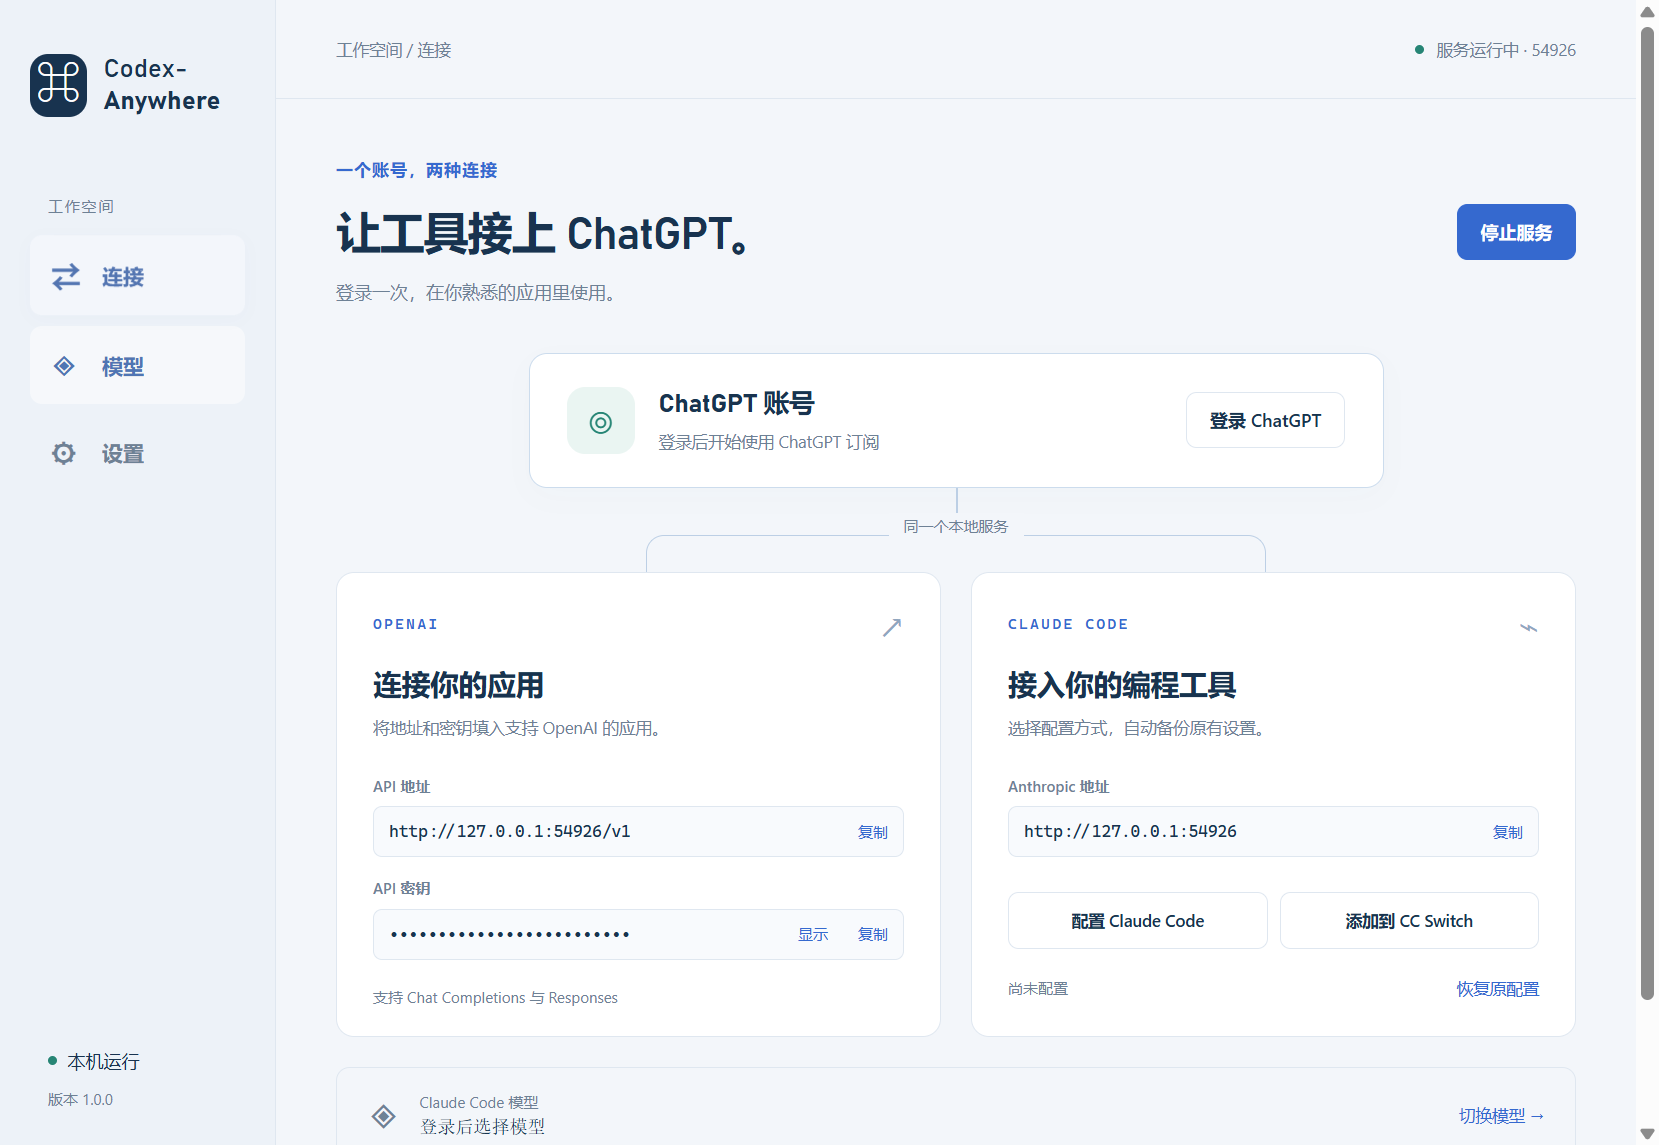
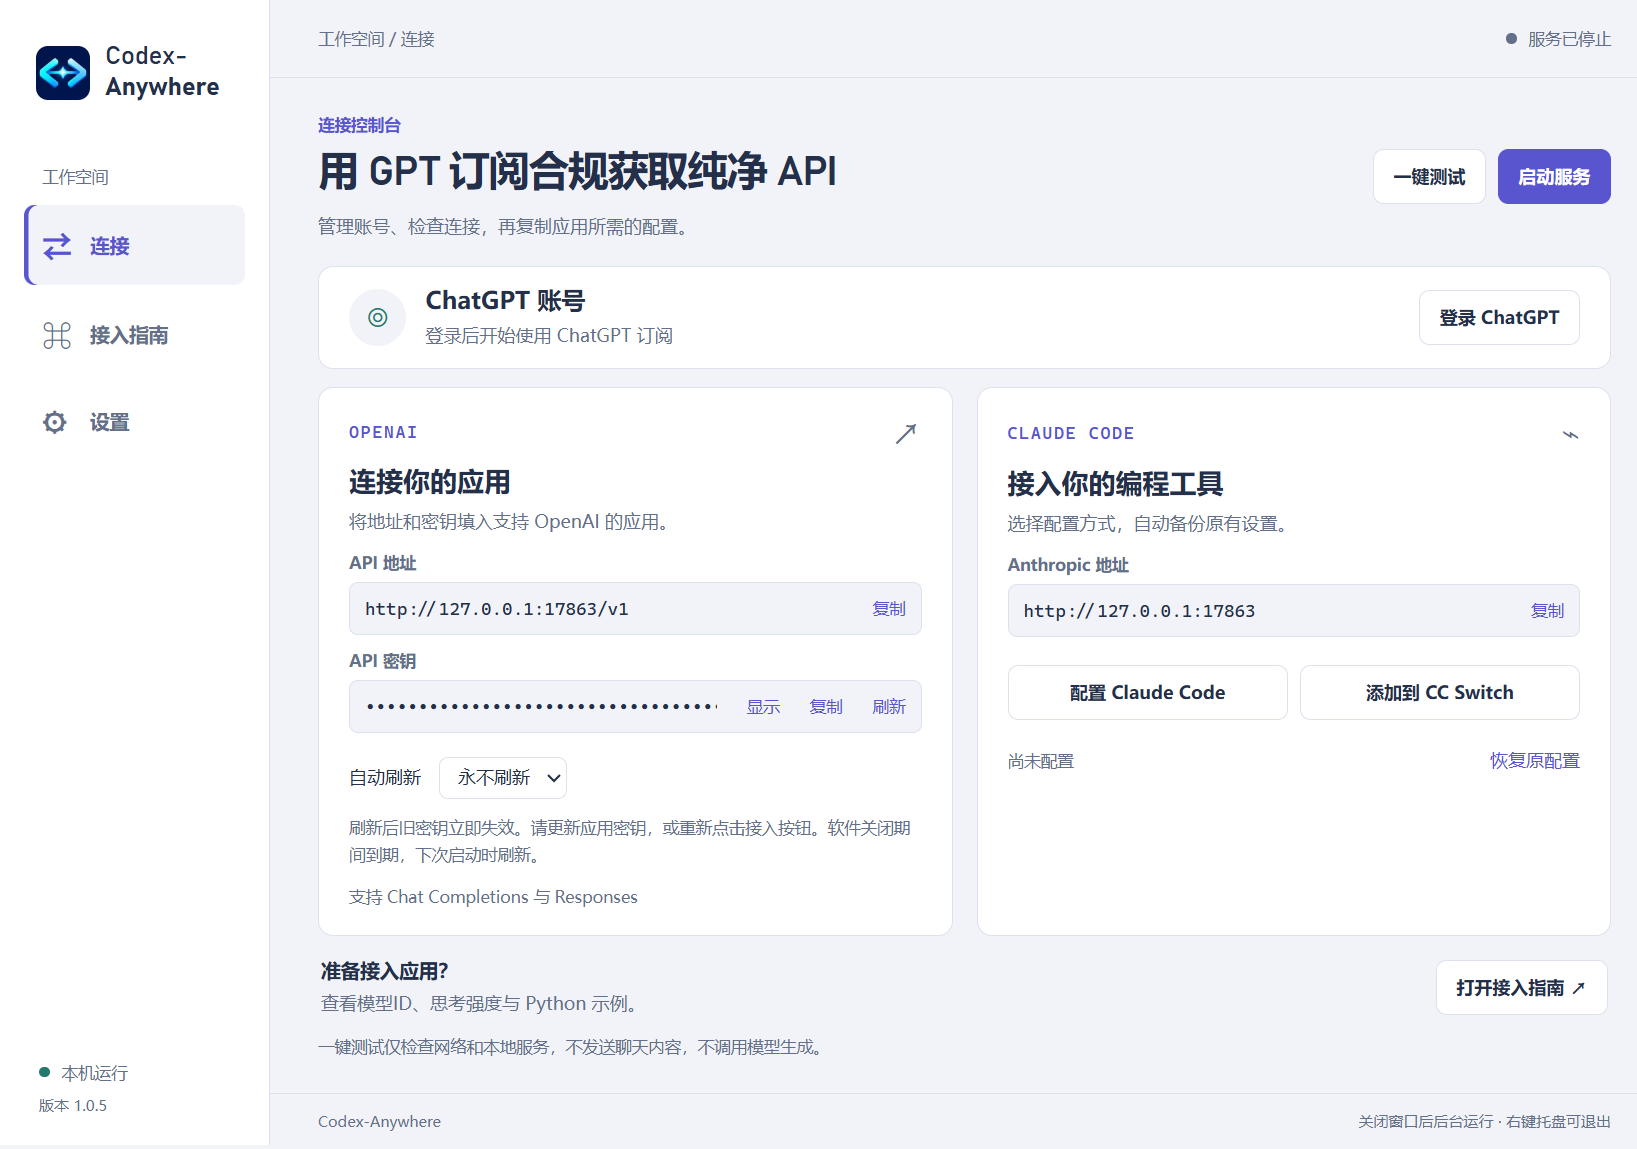
Release 1.0.5 with updated desktop headline and synchronized Windows and Mac builds

diff --git a/src/desktop/renderer/index.html b/src/desktop/renderer/index.html
@@ -4,7 +4,7 @@
 <body>
 <aside class="sidebar"><button class="brand" type="button" aria-label="Codex-Anywhere 首页"><img class="brand-mark" src="../assets/icon.png" alt="" width="36" height="36"><span>Codex-<br><strong>Anywhere</strong></span></button><div class="nav-label">工作空间</div><nav aria-label="主导航"><button class="nav-item active" data-page="connections" aria-current="page"><span aria-hidden="true">⇄</span>连接</button><button class="nav-item" data-page="guide"><span aria-hidden="true">⌘</span>接入指南</button><button class="nav-item" data-page="settings"><span aria-hidden="true">⚙</span>设置</button></nav><div class="sidebar-bottom"><span class="local-label"><i></i>本机运行</span><small id="version">Codex-Anywhere</small></div></aside>
 <main><header class="topbar"><span id="breadcrumb">工作空间 / 连接</span><span class="service-status" id="service-status"><i></i>正在读取状态</span></header><div class="content"><div id="notice" class="notice" role="status" aria-live="polite" hidden></div>
-<section id="page-connections" class="page"><div class="page-heading"><div><p class="eyebrow">连接控制台</p><h1>从本机，连接你的工具。</h1><p class="intro">管理账号、检查连接，再复制应用所需的配置。</p></div><div class="heading-actions"><button id="quick-test" class="button" type="button">一键测试</button><button id="toggle-service" class="button primary" disabled>读取状态中…</button></div></div>
+<section id="page-connections" class="page"><div class="page-heading"><div><p class="eyebrow">连接控制台</p><h1>用 GPT 订阅合规获取纯净 API</h1><p class="intro">管理账号、检查连接，再复制应用所需的配置。</p></div><div class="heading-actions"><button id="quick-test" class="button" type="button">一键测试</button><button id="toggle-service" class="button primary" disabled>读取状态中…</button></div></div>
 <div id="quick-test-result" class="connection-result" role="status" aria-live="polite" hidden></div><div class="connection-map"><article class="account-card"><div class="account-icon" aria-hidden="true">◎</div><div class="account-copy"><h2>ChatGPT 账号</h2><p id="account-state">正在读取登录状态…</p></div><button id="login" class="button">登录 ChatGPT</button><button id="cancel-login" class="button" hidden>取消登录</button><button id="logout" class="button quiet" hidden>退出登录</button></article><div class="connections-grid"><article class="connection-card"><div class="card-top"><span class="protocol">OPENAI</span><span class="card-symbol" aria-hidden="true">↗</span></div><h2>连接你的应用</h2><p class="card-description">将地址和密钥填入支持 OpenAI 的应用。</p><label class="field-label" for="base-url">API 地址</label><div class="copy-field"><input id="base-url" readonly value="—"><button class="copy-button" data-copy="base-url" aria-label="复制 API 地址">复制</button></div><label class="field-label" for="api-key">API 密钥</label><div class="copy-field"><input id="api-key" type="password" readonly placeholder="启动后可用"><button class="copy-button" id="reveal-key" aria-label="显示 API 密钥">显示</button><button class="copy-button" data-copy="api-key" aria-label="复制 API 密钥">复制</button><button class="copy-button" id="rotate-key">刷新</button></div><div class="key-rotation"><label for="key-rotation">自动刷新</label><select id="key-rotation"><option value="0">永不刷新</option><option value="1">1 小时</option><option value="24">1 天</option><option value="168">7 天</option></select></div><p class="footnote">刷新后旧密钥立即失效。请更新应用密钥，或重新点击接入按钮。软件关闭期间到期，下次启动时刷新。</p><p id="key-reconnect" class="guide-warning" hidden>密钥已刷新，请重新接入应用。</p><p class="footnote">支持 Chat Completions 与 Responses</p></article>
 <article class="connection-card"><div class="card-top"><span class="protocol">CLAUDE CODE</span><span class="card-symbol" aria-hidden="true">⌁</span></div><h2>接入你的编程工具</h2><p class="card-description">选择配置方式，自动备份原有设置。</p><label class="field-label" for="anthropic-url">Anthropic 地址</label><div class="copy-field"><input id="anthropic-url" readonly value="—"><button class="copy-button" data-copy="anthropic-url" aria-label="复制 Anthropic 地址">复制</button></div><div class="integrate-actions"><button class="button" data-integrate="direct">配置 Claude Code</button><button class="button" data-integrate="cc-switch">添加到 CC Switch</button></div><div class="integration-footer"><span id="integration-state">尚未配置</span><button id="restore" class="text-button">恢复原配置</button></div></article></div></div>
 <div class="guide-link"><div><strong>准备接入应用？</strong><p>查看模型ID、思考强度与 Python 示例。</p></div><button class="button" data-page="guide">打开接入指南 <span aria-hidden="true">↗</span></button></div><p class="test-scope">一键测试仅检查网络和本地服务，不发送聊天内容，不调用模型生成。</p>

diff --git a/src/desktop/renderer/translations.js b/src/desktop/renderer/translations.js
@@ -48,7 +48,7 @@ export const translations = Object.fromEntries([
   ['代理地址尚未保存，本次使用的是已保存的设置。', '代理位址尚未儲存，本次使用的是已儲存的設定。', 'Your proxy changes are unsaved. This test used the saved settings.'],
   ['接入指南', '接入指南', 'Setup guide'],
   ['连接控制台', '連線控制台', 'Connection console'],
-  ['从本机，连接你的工具。', '從本機，連接你的工具。', 'Your tools, connected locally.'],
+  ['用 GPT 订阅合规获取纯净 API', '用 GPT 訂閱合規取得純淨 API', 'Get clean API access compliantly with your GPT subscription'],
   ['管理账号、检查连接，再复制应用所需的配置。', '管理帳號、檢查連線，再複製應用程式所需的設定。', 'Manage your account, check connections, and copy settings for your apps.'],
   ['一键测试', '一鍵測試', 'Test connection'],
   ['连接路径', '連線路徑', 'Connection path'],

diff --git a/docs/README.zh-CN.md b/docs/README.zh-CN.md
@@ -6,7 +6,7 @@
 
 **通过本地 API Key 使用 ChatGPT 订阅额度**
 
-[下载 Windows 桌面版](https://github.com/NamelessDDDoge/Codex-Anywhere/releases/latest) · [使用指南](USER-GUIDE.txt) · [参与开发](CONTRIBUTING.md)
+[下载 Windows 桌面版](https://github.com/FeatherBlade91/CodexAnywhere/releases/latest) · [使用指南](USER-GUIDE.txt) · [参与开发](CONTRIBUTING.md)
 
 ![Windows x64](https://img.shields.io/badge/Windows-x64-36665D?style=flat-square)
 ![Electron desktop](https://img.shields.io/badge/Electron-desktop-506479?style=flat-square)
@@ -26,7 +26,7 @@
 
 ## 开始使用
 
-1. 从[最新 Release](https://github.com/NamelessDDDoge/Codex-Anywhere/releases/latest) 下载 Windows x64 安装包，安装并打开 **Codex-Anywhere**。安装包包含运行环境，无须另装 Node.js。
+1. 从[最新 Release](https://github.com/FeatherBlade91/CodexAnywhere/releases/latest) 下载 Windows x64 安装包，安装并打开 **Codex-Anywhere**。安装包包含运行环境，无须另装 Node.js。
 2. 在浏览器中完成 ChatGPT 登录，再刷新可用模型。
 3. 启动本地服务。将地址和本地 API Key 复制到应用，或使用界面中的 Claude Code 接入功能。
 
@@ -107,7 +107,7 @@ npm run test:desktop     # 桌面界面测试
 npm run dist             # 构建 Windows 桌面安装包
 ```
 
-安装包名称为 `Codex-Anywhere-Setup-1.0.4-x64.exe`。本地构建不会自动发布 Release。在线测试需要自己的授权账号并消耗订阅额度，分享结果前请脱敏。
+安装包名称为 `Codex-Anywhere-Setup-1.0.5-x64.exe`。本地构建不会自动发布 Release。在线测试需要自己的授权账号并消耗订阅额度，分享结果前请脱敏。
 
 开发约定和测试隔离见 [CONTRIBUTING.md](CONTRIBUTING.md)。请保留[第三方声明](THIRD-PARTY-NOTICES.md)、[项目许可](../LICENSE)及 [OpenAI Devkit 许可](../vendor/siwc/LICENSE)。
 
@@ -126,7 +126,7 @@ node tests/packaged.mjs
 
 打开生成的 DMG，将应用拖入 Applications 后启动。数据保存在 `~/Library/Application Support/CodexAnywhere`；登录凭据由系统钥匙串保护。关闭窗口后服务继续在菜单栏运行，点击 Dock 图标可重新打开，Cmd+Q 完全退出。
 
-Mac 仍为内测版，下载 [Mac 内测 Release](https://github.com/NamelessDDDoge/Codex-Anywhere/releases/tag/v1.0.4-mac-beta.1)。分发签名、公证及测试范围见 [macOS 开发说明](MACOS.md)。
+Mac 仍为内测版，下载 [Mac 内测 Release](https://github.com/FeatherBlade91/CodexAnywhere/releases/tag/v1.0.5)。分发签名、公证及测试范围见 [macOS 开发说明](MACOS.md)。
 ### OpenAI examples
 
 The home page includes a live model ID, a minimal Python chat example, and reasoning-effort mappings. See [OpenAI / DeepSeek Harness examples](OPENAI-EXAMPLES.md).
@@ -145,4 +145,4 @@ bash scripts/test-linux.sh
 bash scripts/test-linux.sh node tests/packaged.mjs
 ```
 
-Ubuntu 可安装 `dist/Codex-Anywhere-1.0.4-linux-amd64.deb`；AppImage 需赋予执行权限。登录需要已解锁的 GNOME Keyring 或 KWallet，数据默认存放在 `~/.local/share/CodexAnywhere`。WSL 需要 WSLg 和 D-Bus/密钥环会话。安装依赖、启动与测试范围见 [Linux 使用说明](LINUX.md)。
+Ubuntu 可安装 `dist/Codex-Anywhere-1.0.5-linux-amd64.deb`；AppImage 需赋予执行权限。登录需要已解锁的 GNOME Keyring 或 KWallet，数据默认存放在 `~/.local/share/CodexAnywhere`。WSL 需要 WSLg 和 D-Bus/密钥环会话。安装依赖、启动与测试范围见 [Linux 使用说明](LINUX.md)。

diff --git a/README.md b/README.md
@@ -6,7 +6,7 @@
 
 **通过本地 API Key 使用 ChatGPT 订阅额度**
 
-[下载 Windows 桌面版](https://github.com/NamelessDDDoge/Codex-Anywhere/releases/latest) · [使用指南](docs/USER-GUIDE.txt) · [参与开发](docs/CONTRIBUTING.md)
+[下载 Windows 桌面版](https://github.com/FeatherBlade91/CodexAnywhere/releases/latest) · [使用指南](docs/USER-GUIDE.txt) · [参与开发](docs/CONTRIBUTING.md)
 
 ![Windows x64](https://img.shields.io/badge/Windows-x64-36665D?style=flat-square)
 ![Electron desktop](https://img.shields.io/badge/Electron-desktop-506479?style=flat-square)
@@ -26,7 +26,7 @@
 
 ## 开始使用
 
-1. 从[最新 Release](https://github.com/NamelessDDDoge/Codex-Anywhere/releases/latest) 下载 Windows x64 安装包，安装并打开 **Codex-Anywhere**。安装包包含运行环境，无须另装 Node.js。
+1. 从[最新 Release](https://github.com/FeatherBlade91/CodexAnywhere/releases/latest) 下载 Windows x64 安装包，安装并打开 **Codex-Anywhere**。安装包包含运行环境，无须另装 Node.js。
 2. 在浏览器中完成 ChatGPT 登录，再刷新可用模型。
 3. 启动本地服务。将地址和本地 API Key 复制到应用，或使用界面中的 Claude Code 接入功能。
 
@@ -107,7 +107,7 @@ npm run test:desktop     # 桌面界面测试
 npm run dist             # 构建 Windows 桌面安装包
 ```
 
-安装包名称为 `Codex-Anywhere-Setup-1.0.4-x64.exe`。本地构建不会自动发布 Release。在线测试需要自己的授权账号并消耗订阅额度，分享结果前请脱敏。
+安装包名称为 `Codex-Anywhere-Setup-1.0.5-x64.exe`。本地构建不会自动发布 Release。在线测试需要自己的授权账号并消耗订阅额度，分享结果前请脱敏。
 
 开发约定和测试隔离见 [CONTRIBUTING.md](docs/CONTRIBUTING.md)。请保留[第三方声明](docs/THIRD-PARTY-NOTICES.md)、[项目许可](LICENSE)及 [OpenAI Devkit 许可](vendor/siwc/LICENSE)。
 
@@ -132,7 +132,7 @@ node tests/packaged.mjs
 
 打开生成的 DMG，将应用拖入 Applications 后启动。数据保存在 `~/Library/Application Support/CodexAnywhere`；登录凭据由系统钥匙串保护。关闭窗口后服务继续在菜单栏运行，点击 Dock 图标可重新打开，Cmd+Q 完全退出。
 
-Mac 仍为内测版，下载 [Mac 内测 Release](https://github.com/NamelessDDDoge/Codex-Anywhere/releases/tag/v1.0.4-mac-beta.1)。分发签名、公证及测试范围见 [macOS 开发说明](docs/MACOS.md)。
+Mac 仍为内测版，下载 [Mac 内测 Release](https://github.com/FeatherBlade91/CodexAnywhere/releases/tag/v1.0.5)。分发签名、公证及测试范围见 [macOS 开发说明](docs/MACOS.md)。
 
 ## Linux 桌面版
 
@@ -146,4 +146,4 @@ bash scripts/test-linux.sh
 bash scripts/test-linux.sh node tests/packaged.mjs
 ```
 
-Ubuntu 可安装 `dist/Codex-Anywhere-1.0.4-linux-amd64.deb`；AppImage 需赋予执行权限。登录需要已解锁的 GNOME Keyring 或 KWallet，数据默认存放在 `~/.local/share/CodexAnywhere`。WSL 需要 WSLg 和 D-Bus/密钥环会话。安装依赖、启动与测试范围见 [Linux 使用说明](docs/LINUX.md)。
+Ubuntu 可安装 `dist/Codex-Anywhere-1.0.5-linux-amd64.deb`；AppImage 需赋予执行权限。登录需要已解锁的 GNOME Keyring 或 KWallet，数据默认存放在 `~/.local/share/CodexAnywhere`。WSL 需要 WSLg 和 D-Bus/密钥环会话。安装依赖、启动与测试范围见 [Linux 使用说明](docs/LINUX.md)。

diff --git a/docs/README.en.md b/docs/README.en.md
@@ -6,7 +6,7 @@
 
 **Use your ChatGPT subscription through a local API key**
 
-[Download for Windows](https://github.com/NamelessDDDoge/Codex-Anywhere/releases/latest) · [Usage guide](USER-GUIDE.txt) · [Contributing](CONTRIBUTING.md)
+[Download for Windows](https://github.com/FeatherBlade91/CodexAnywhere/releases/latest) · [Usage guide](USER-GUIDE.txt) · [Contributing](CONTRIBUTING.md)
 
 ![Windows x64](https://img.shields.io/badge/Windows-x64-36665D?style=flat-square)
 ![Electron desktop](https://img.shields.io/badge/Electron-desktop-506479?style=flat-square)
@@ -24,7 +24,7 @@ The app uses OpenAI's Sign in with ChatGPT Devkit through the [officially docume
 
 ## Get connected
 
-1. Download the Windows x64 installer from [the latest release](https://github.com/NamelessDDDoge/Codex-Anywhere/releases/latest) and open **Codex-Anywhere**. The desktop package includes its runtime; a separate Node.js installation is unnecessary.
+1. Download the Windows x64 installer from [the latest release](https://github.com/FeatherBlade91/CodexAnywhere/releases/latest) and open **Codex-Anywhere**. The desktop package includes its runtime; a separate Node.js installation is unnecessary.
 2. Sign in with ChatGPT in your browser, then refresh the available models.
 3. Start the local service. Copy its URL and local API key into your application, or use the Claude Code connection controls.
 
@@ -105,7 +105,7 @@ npm run test:desktop     # Desktop UI tests
 npm run dist             # Build the Windows desktop installer
 ```
 
-The installer is named `Codex-Anywhere-Setup-1.0.4-x64.exe`. Building an installer does not publish a release. Online tests require an authorized account and consume subscription quota; keep their outputs private until sanitized.
+The installer is named `Codex-Anywhere-Setup-1.0.5-x64.exe`. Building an installer does not publish a release. Online tests require an authorized account and consume subscription quota; keep their outputs private until sanitized.
 
 See [CONTRIBUTING.md](CONTRIBUTING.md) for development and test isolation. Preserve [third-party notices](THIRD-PARTY-NOTICES.md), the [project license](../LICENSE), and the [OpenAI Devkit license](../vendor/siwc/LICENSE).
 
@@ -120,7 +120,7 @@ Use the actual port displayed by the desktop service for DeepSeek Harness. Profi
 
 On a Mac, run `npm ci`, `npm test`, and `npm run test:desktop`, then `npm run dist:mac:preview -- --arm64` for an Apple Silicon DMG (use `--x64` for Intel), followed by `node tests/packaged.mjs`. Drag the application from the DMG into Applications.
 
-Data lives in `~/Library/Application Support/CodexAnywhere`; credentials are protected by Keychain. Closing the window keeps the service running in the menu bar. Click the Dock icon to reopen, or Cmd+Q to quit. Mac remains in beta: download the [Mac beta release](https://github.com/NamelessDDDoge/Codex-Anywhere/releases/tag/v1.0.4-mac-beta.1). See [macOS development notes](MACOS.md) for signing, notarization, and validation scope.
+Data lives in `~/Library/Application Support/CodexAnywhere`; credentials are protected by Keychain. Closing the window keeps the service running in the menu bar. Click the Dock icon to reopen, or Cmd+Q to quit. Mac remains in beta: download the [Mac beta release](https://github.com/FeatherBlade91/CodexAnywhere/releases/tag/v1.0.5). See [macOS development notes](MACOS.md) for signing, notarization, and validation scope.
 
 ## Linux desktop
 

diff --git a/docs/RELEASE.md b/docs/RELEASE.md
@@ -1,3 +1,14 @@
+## v1.0.5 — 2026-11-15
+
+- 更新首页标题为「用 GPT 订阅合规获取纯净 API」，同步繁体和英文。
+- 更新 README 实机截图、版本号与新仓库下载链接。
+- Windows x64 与 macOS Apple Silicon 使用同一份 1.0.5 源码构建。
+- 固定 macOS 权限文件为 LF 换行，修复从 Windows 源码打包时的签名解析失败。
+
+下载 Windows 的 Setup.exe 或 Apple Silicon Mac 的 mac-beta-arm64.dmg；SHA256SUMS.txt 提供校验值。
+Windows 已通过安装包与桌面验证；Mac 三项界面测试通过，SSH 环境的钥匙串持久化测试未通过，仍为测试版。
+Mac 包使用 ad-hoc 签名，尚未 Apple 公证；Intel Mac 不在本次发布范围。此次验证为离线回归、桌面及安装包检查，未调用真实账号生成。
+
 ## macOS beta — v1.0.4-mac-beta.1
 
 **Mac 仍为内测版。** 本次发布 Apple Silicon（arm64）DMG，使用 ad-hoc 签名，尚未进行 Apple 公证。Windows v1.0.4 继续作为正式版。

diff --git a/docs/VALIDATION.md b/docs/VALIDATION.md
@@ -1,3 +1,9 @@
+## v1.0.5 — 2026-11-15
+
+Windows x64 and Apple Silicon macOS were rebuilt from the same source. Both passed 90 offline backend tests. Windows passed all three applicable packaged desktop tests plus DPAPI round-trip, source integrity and license checks. macOS passed source integrity, license checks and three packaged UI tests; native Keychain persistence failed in the SSH session, including after unlocking the login Keychain. This remains an open validation limitation for the Mac beta. No real-account generation was performed.
+
+The Mac DMG uses ad-hoc signing without Apple notarization. Intel and Linux packages are not included in this release. README screenshots were captured from the 1.0.5 Windows app using isolated state.
+
 # Validation record
 
 [Back to README](../README.md)

diff --git a/docs/MACOS.md b/docs/MACOS.md
@@ -17,7 +17,7 @@ node tests/packaged.mjs
 ```
 
 For Intel, use `--x64`. The default build targets the host architecture. The DMG
-is `dist/Codex-Anywhere-1.0.4-mac-beta-arm64.dmg` (or `x64`). To check a custom app
+is `dist/Codex-Anywhere-1.0.5-mac-beta-arm64.dmg` (or `x64`). To check a custom app
 location, set `BRIDGE_PACKAGE_DIR` to the `.app` directory. The packaging check
 verifies ASAR integrity and sources, then exercises the packaged GUI and Keychain.
 Build each architecture on a matching runner for native validation.
